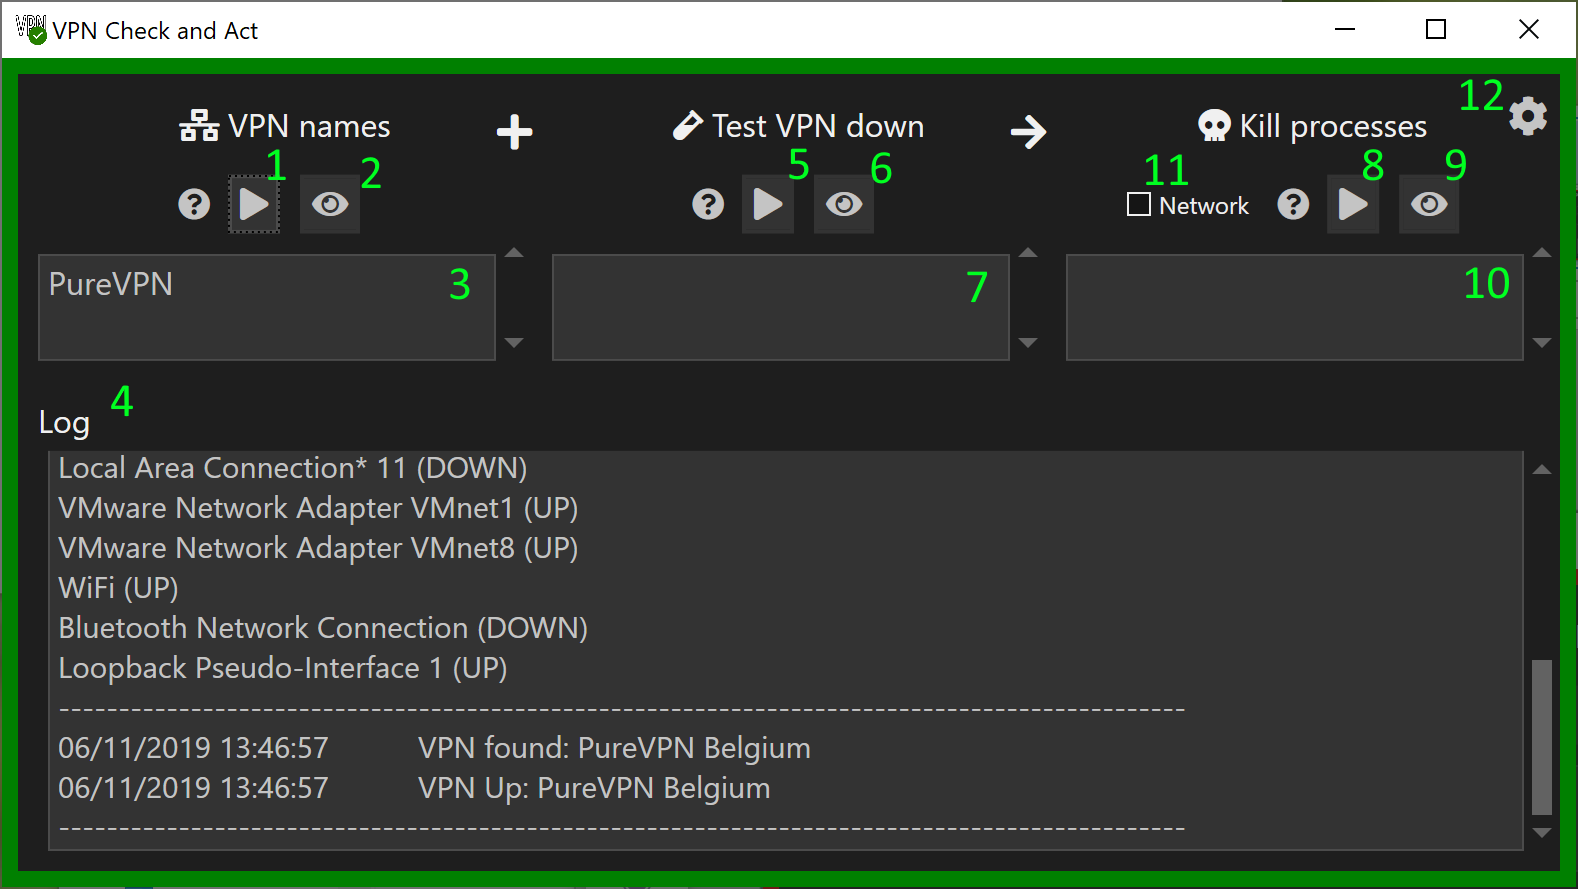
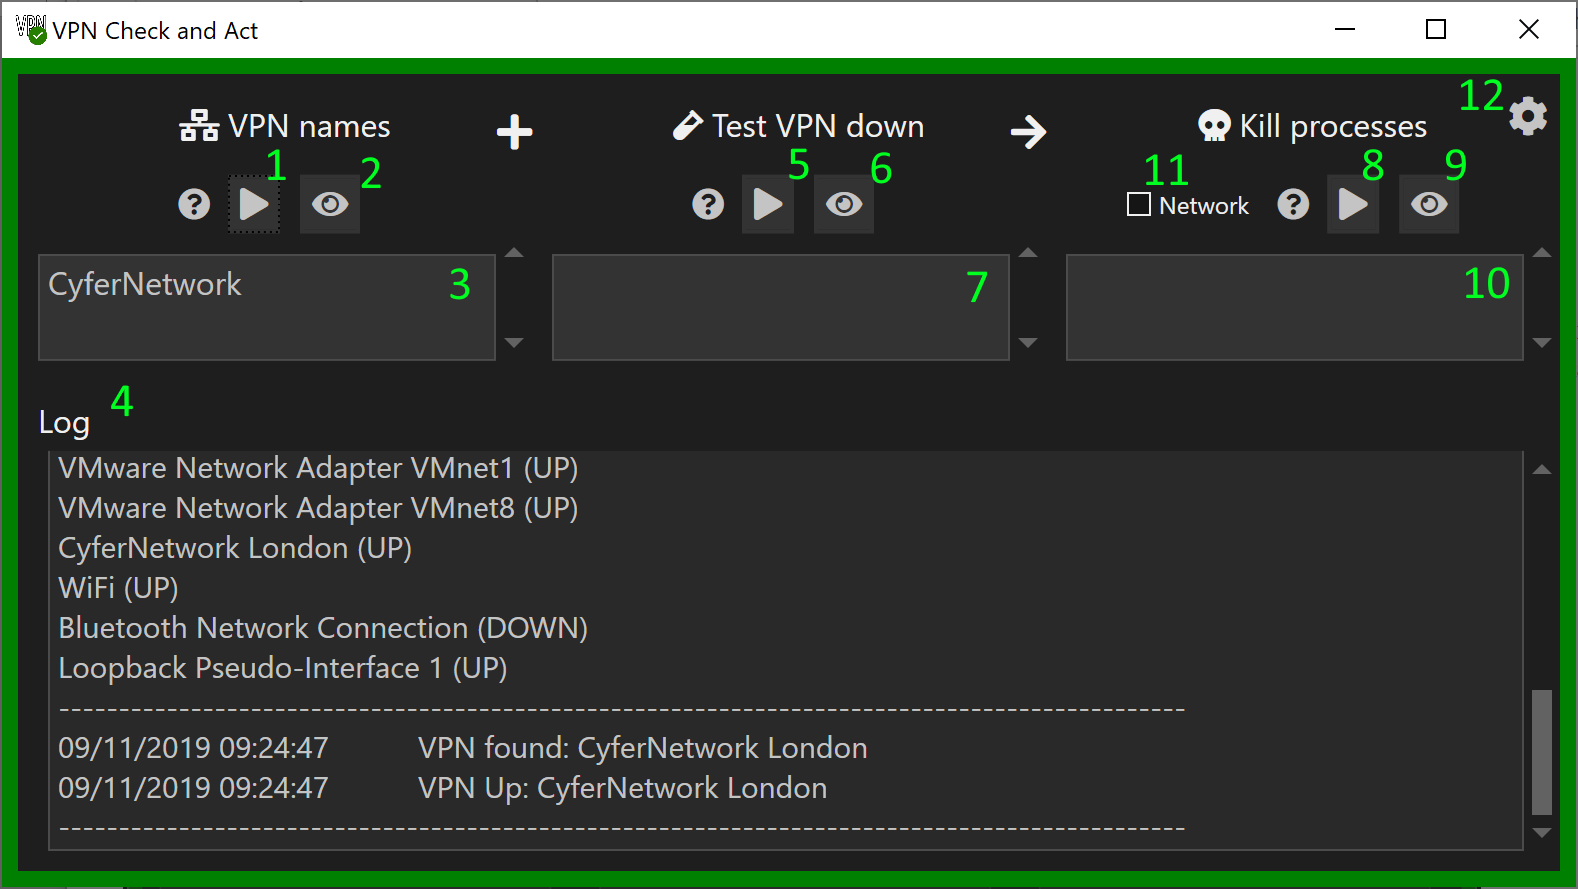
change vpn names

diff --git a/index.html b/index.html
@@ -10,7 +10,7 @@
 <p>There are three steps to configuring VPN Check and Act.</p>
 <ol>
 <li>Entering the names of the VPNs to be monitored.
-<li>Entering tests to determine if the network traffic is using a VPN. This step is optional, but if it is not configured, whilst VPN Check and Act will still be able to detect if a VPN is up, it will not be able to determine that the VPN is operating correctly.
+<li>Entering tests to determine if the network traffic is using a VPN. This step is optional, but if it is not configured, whilst VPN Check and Act will still be able to detect if a VPN is up, it will not be able to determine whether the VPN is operating correctly.
 <li>The actions to take if the VPN fails. This will be either killing specific applications or the entire network.
 </ol>
 <p>
